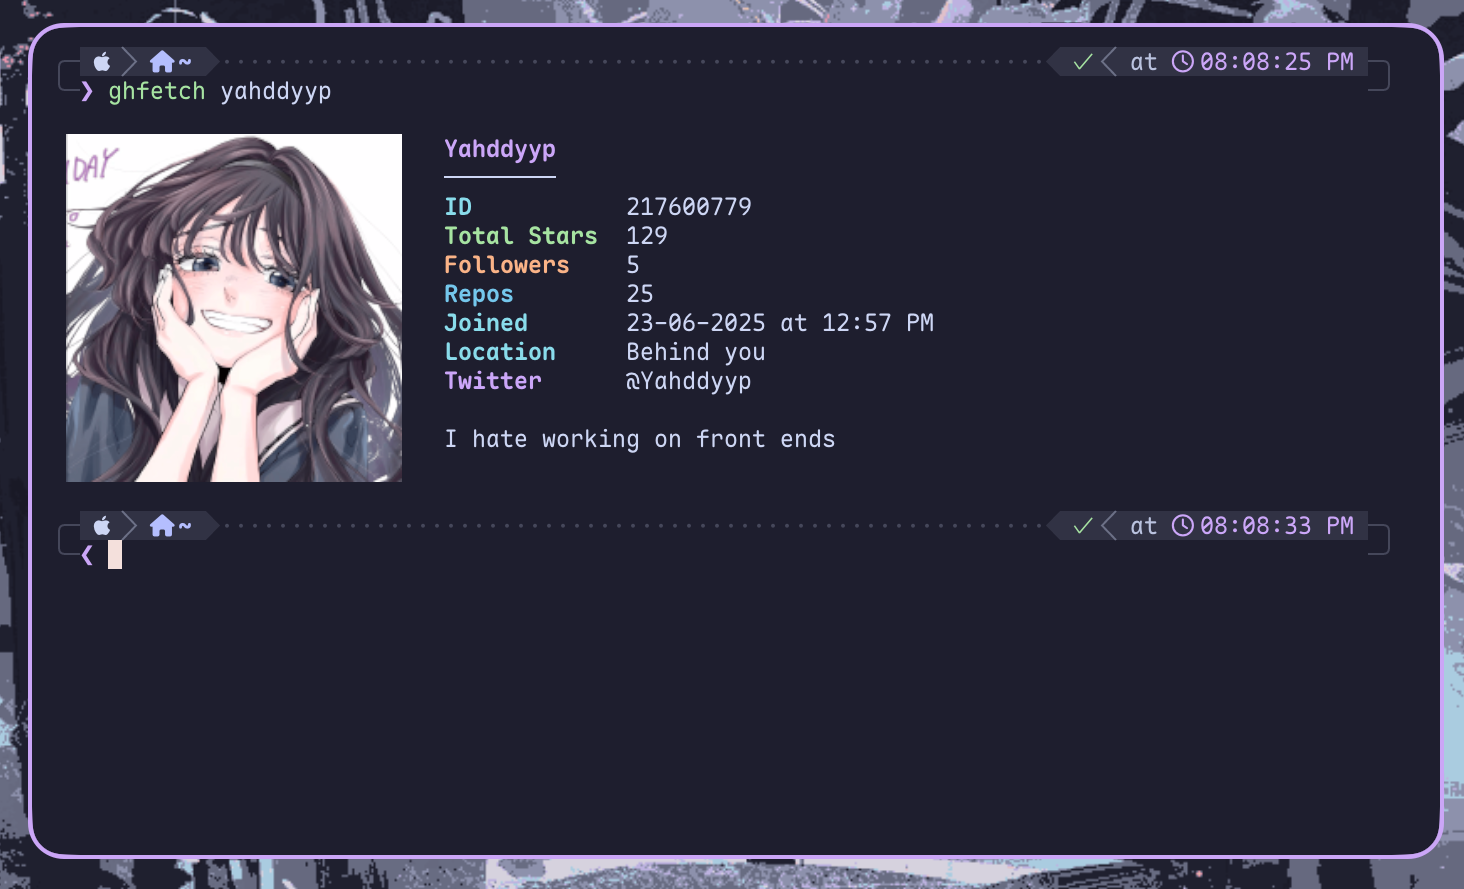
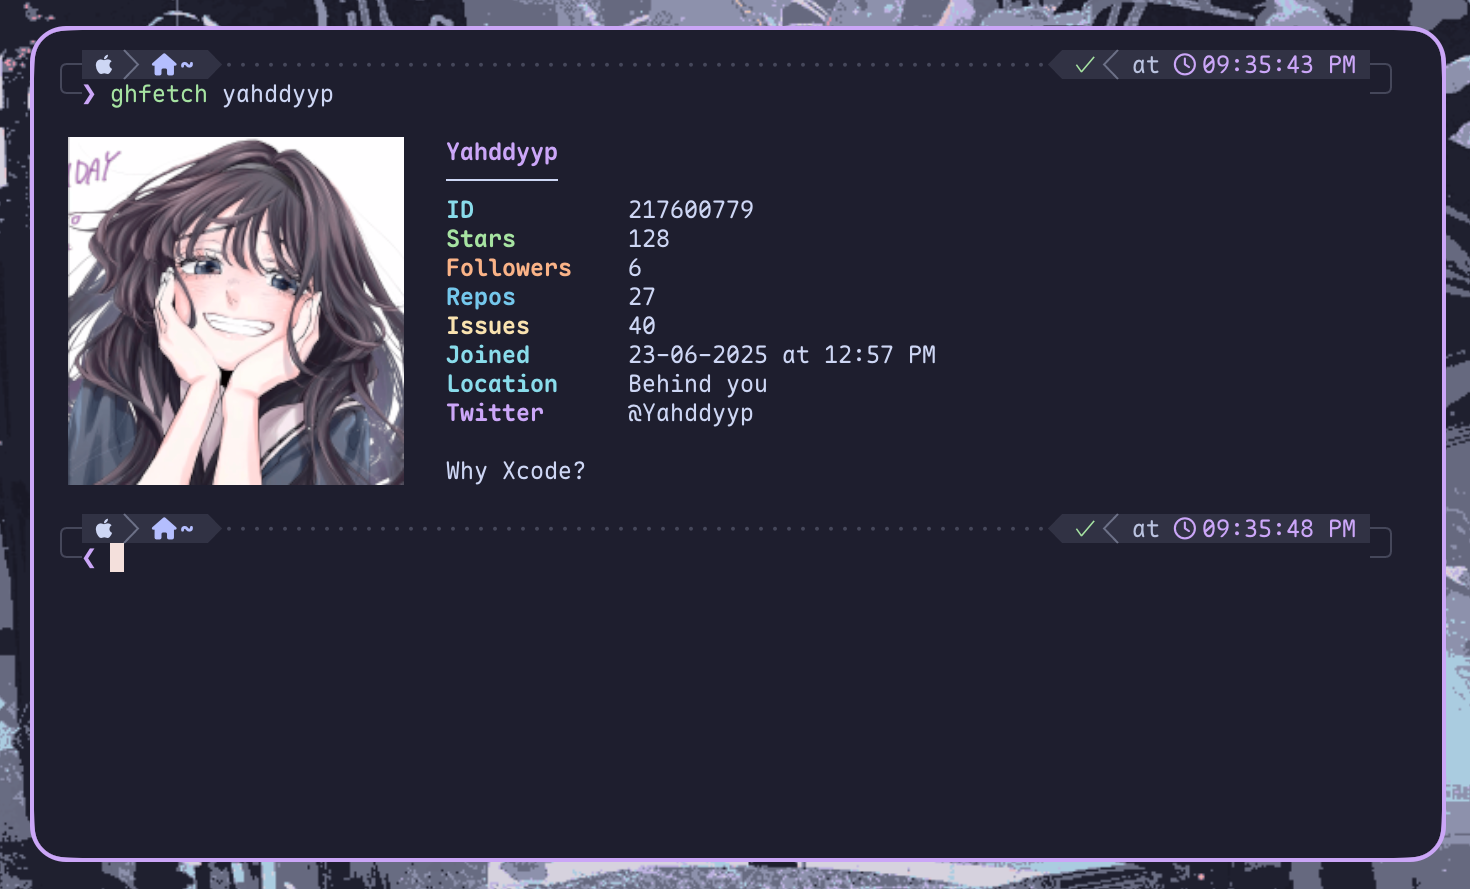
feat(field)!: Rename total_stars to stars

diff --git a/src/info/display_info.rs b/src/info/display_info.rs
@@ -42,9 +42,9 @@ pub fn print_user_info(
                 info.id
             )),
 
-            Field::TotalStars => Some(format!(
+            Field::Stars => Some(format!(
                 "{} {}",
-                format_text("Total Stars", colors.total_stars, colors.enabled),
+                format_text("Stars", colors.stars, colors.enabled),
                 info.stars
             )),
 
@@ -141,17 +141,18 @@ pub fn print_user_info(
         println!("{indent}{line}");
     }
 
-    let extra = if show_avatar {
-        layout.image_rows.saturating_sub(text_line_count + 1)
+    // Determine the taller element between the avatar image and the fields
+    let max_lines = if show_avatar {
+        layout.image_rows.max(text_line_count)
     } else {
-        0
+        text_line_count
     };
 
-    if show_avatar && extra > 0 {
+    // Pad down if the image is taller than the text
+    let extra = max_lines.saturating_sub(text_line_count);
+    if extra > 0 {
         print!("{}", "\n".repeat(extra));
     }
-
-    println!();
 }
 
 /// Give the field width for underline.
@@ -161,7 +162,7 @@ fn field_width(field: UnderlineField, info: &UserInfo) -> usize {
 
         UnderlineField::Id => format!("{:<12} {}", "ID", info.id).len(),
 
-        UnderlineField::TotalStars => format!("{:<12} {}", "Total Stars", info.stars).len(),
+        UnderlineField::Stars => format!("{:<12} {}", "Stars", info.stars).len(),
 
         UnderlineField::Followers => format!("{:<12} {}", "Followers", info.followers).len(),
 

diff --git a/src/config_stuff/colors.rs b/src/config_stuff/colors.rs
@@ -19,7 +19,7 @@ pub struct ColorsConfig {
     pub name: Option<Color>,
     pub underline: Option<Color>,
     pub id: Option<Color>,
-    pub total_stars: Option<Color>,
+    pub stars: Option<Color>,
     pub followers: Option<Color>,
     pub repos: Option<Color>,
     pub issues: Option<Color>,
@@ -37,7 +37,7 @@ pub struct Colors {
     pub name: (u8, u8, u8),
     pub underline: Option<(u8, u8, u8)>,
     pub id: (u8, u8, u8),
-    pub total_stars: (u8, u8, u8),
+    pub stars: (u8, u8, u8),
     pub followers: (u8, u8, u8),
     pub repos: (u8, u8, u8),
     pub issues: (u8, u8, u8),
@@ -58,7 +58,7 @@ impl Colors {
             name: c.name.map(Color::to_rgb).unwrap_or((203, 166, 247)),
             underline: c.underline.map(Color::to_rgb),
             id: c.id.map(Color::to_rgb).unwrap_or((137, 220, 235)),
-            total_stars: c.total_stars.map(Color::to_rgb).unwrap_or((166, 227, 161)),
+            stars: c.stars.map(Color::to_rgb).unwrap_or((166, 227, 161)),
             followers: c.followers.map(Color::to_rgb).unwrap_or((250, 179, 135)),
             repos: c.repos.map(Color::to_rgb).unwrap_or((116, 199, 236)),
             issues: c.issues.map(Color::to_rgb).unwrap_or((249, 226, 175)),

diff --git a/src/config_stuff/fields.rs b/src/config_stuff/fields.rs
@@ -7,7 +7,7 @@ impl Config {
             vec![
                 Field::User,
                 Field::Id,
-                Field::TotalStars,
+                Field::Stars,
                 Field::Followers,
                 Field::Repos,
                 Field::Issues,
@@ -27,7 +27,7 @@ impl Config {
 pub enum UnderlineField {
     User,
     Id,
-    TotalStars,
+    Stars,
     Followers,
     Repos,
     Issues,
@@ -52,7 +52,7 @@ pub enum Field {
     User,
     Underline(UnderlineTarget),
     Id,
-    TotalStars,
+    Stars,
     Followers,
     Repos,
     Issues,

diff --git a/src/config_stuff/config.rs b/src/config_stuff/config.rs
@@ -30,8 +30,13 @@ pub fn load_config() -> Result<Config> {
     let contents = std::fs::read_to_string(&path)
         .with_context(|| format!("Failed to read {}", path.display()))?;
 
-    let config = toml::from_str::<Config>(&contents)
-        .with_context(|| format!("Failed to parse {}", path.display()))?;
+    let config = toml::from_str::<Config>(&contents).map_err(|e| {
+        anyhow::anyhow!(
+            "Failed to parse {}:\n{}",
+            path.display(),
+            e.to_string().trim_end()
+        )
+    })?;
 
     Ok(config)
 }

diff --git a/src/config_stuff/default.rs b/src/config_stuff/default.rs
@@ -29,7 +29,7 @@ name = { r = 203, g = 166, b = 247 }
 # Uses the terminal's default foreground color if omitted
 # underline = { r = 255, g = 255, b = 255 }
 id = { r = 137, g = 220, b = 235 }
-total_stars = { r = 166, g = 227, b = 161 }
+stars = { r = 166, g = 227, b = 161 }
 followers = { r = 250, g = 179, b = 135 }
 repos = { r = 116, g = 199, b = 236 }
 issues = {r = 249, g = 226, b = 175}

diff --git a/README.md b/README.md
@@ -10,9 +10,6 @@ Ghfetch is a neofetch/fastfetch like tool for fetching github stats from differe
 
 - A terminal that supports kitty's image rendering protocol (eg: ghostty or kitty).
 
-> [!NOTE]
-> Different terminals may use different variations of the kitty image protcol like ghostty using unicode placeholder and so the placement may be one to two lines off.
-
 #### Homebrew
 
 ```bash
@@ -22,8 +19,8 @@ brew install Yahddyyp/tap/ghfetch
 #### From source
 
 ```bash
-git clone https://github.com/Yahddyyp/gh-fetch.git
-cd gh-fetch
+git clone https://github.com/Yahddyyp/ghfetch.git
+cd ghfetch
 cargo build --release
 ```
 
@@ -74,7 +71,7 @@ fields = [
   "user",
   { underline = "user" }, # can take any sort of field or integer value
   "id",
-  "total_stars",
+  "stars",
   "followers",
   "repos",
   "joined",
@@ -94,7 +91,7 @@ name = { r = 203, g = 166, b = 247 }
 # Uses the terminal's default foreground color if omitted
 # underline = { r = 255, g = 255, b = 255 }
 id = { r = 137, g = 220, b = 235 }
-total_stars = { r = 166, g = 227, b = 161 }
+stars = { r = 166, g = 227, b = 161 }
 followers = { r = 250, g = 179, b = 135 }
 repos = { r = 116, g = 199, b = 236 }
 joined = { r = 137, g = 220, b = 235 }

diff --git a/CHANGELOG.md b/CHANGELOG.md
@@ -8,9 +8,15 @@ All notable changes to this project are documented here.
 
 - `--no-avatar` and `--no-color` flags.
 
-## Changed
+### Changed
 
 - Switched from a match to using clap for cli management.
+- Changed `total_stars` to just `stars`.
+- Made toml error have only one blank line instead of two.
+
+### Fixed
+
+- Two blank lines being made instead of one on some profiles.
 
 ## [1.0.1] - 2026-09-22
 
